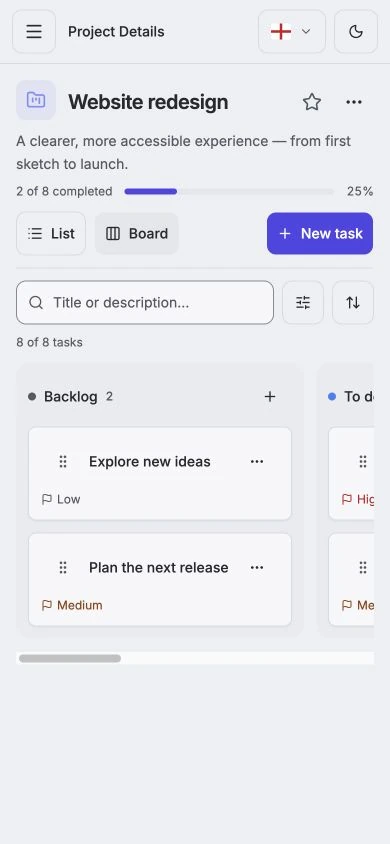
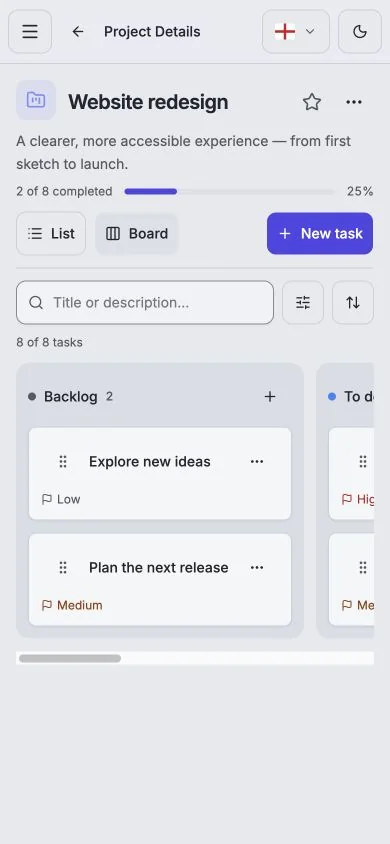
docs: refresh product previews for release 1.2.1 (#32)
Publish current landing and workspace previews, update the live demo and release version. Validated with 535 tests, quality gates, zero production audit findings, cross-origin backup and cached workspace persistence.

diff --git a/README.md b/README.md
@@ -8,17 +8,19 @@ Built as a React portfolio project, Saturnino combines practical task management
 
 ## Live Demo
 
-[Open Saturnino](https://saturnino-ten.vercel.app)
+[Open Saturnino](https://saturnino-app.vercel.app)
 
 Explore the application in your browser or install it from your browser menu when supported. No sign-in, API keys or configuration are required.
 
-## Application Preview
+## Preview
 
 Real application screenshots using fictional project data.
 
-![Dashboard analytics in dark mode](docs/images/dashboard-desktop-dark.webp)
+![Saturnino landing page with its orbital branding and hero in dark mode](docs/images/landing-desktop-dark.webp)
 
 ![Desktop Kanban board in dark mode](docs/images/kanban-desktop-dark.webp)
+
+![Dashboard analytics in dark mode](docs/images/dashboard-desktop-dark.webp)
 
 | Tablet · Light mode                                                        | Mobile · Light mode                                                        |
 | -------------------------------------------------------------------------- | -------------------------------------------------------------------------- |
@@ -27,17 +29,20 @@ Real application screenshots using fictional project data.
 ## Features
 
 - **Projects and tasks:** create, edit and organize work, track completion and keep favorite projects close through a customizable sidebar.
-- **Kanban and list views:** drag cards from their noninteractive surface across four columns, or use keyboard handles and menus. Add tasks directly to a column.
+- **Kanban and list views:** drag cards by their title or surface, reorder work across four columns, or use keyboard handles and menus. Add tasks directly to a column.
 - **Focused task details:** edit in a side panel on desktop or a full-screen panel on mobile, with explicit saving, unsaved-change protection and concurrent-edit detection.
 - **Search and planning:** combine filters, choose a sort order and set deadlines with a localized calendar.
-- **Dashboard and preferences:** explore status and priority distributions, retained-date activity and actionable deadlines. Personalize navigation with a Save/Cancel modal and organized settings.
+- **Dashboard and navigation:** explore status and priority distributions, retained-date activity and actionable deadlines. Return through your workspace with a Back control and personalize the sidebar and settings.
 - **Backup and offline use:** export JSON backups or CSV, restore a validated workspace and use the cached application after a completed online visit.
 
 Projects and tasks belong to the current browser profile and origin. There is no cloud synchronization; changing devices or clearing browser data can make records unavailable. Keep JSON backups, especially before moving your workspace or clearing storage.
 
 ## Tech Stack
 
-React 19 · JavaScript · Vite 8 · Tailwind CSS 4 · React Router · Dexie / IndexedDB · React Hook Form · Radix UI · dnd-kit · DayPicker · i18next · Workbox.
+- **Interface:** React 19, JavaScript, Tailwind CSS 4, Radix UI and Lucide.
+- **Navigation and forms:** React Router, React Hook Form, dnd-kit, DayPicker and i18next.
+- **Local data and offline use:** Dexie / IndexedDB and Workbox.
+- **Build and hosting:** Vite 8 and Vercel.
 
 Quality checks use Vitest, React Testing Library, ESLint, Prettier and GitHub Actions. The application is hosted on Vercel.
 
